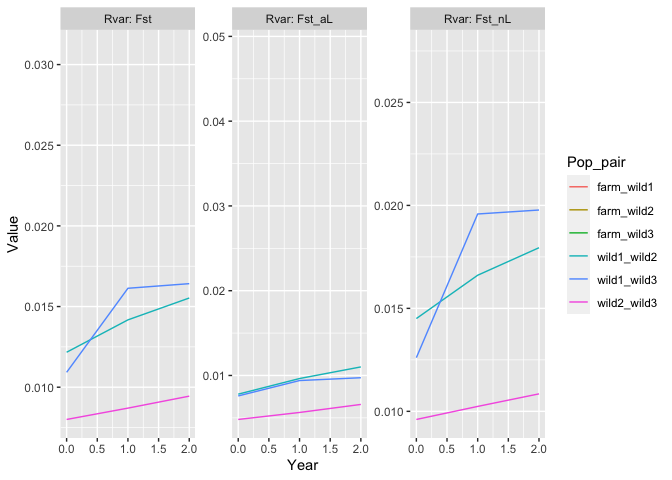
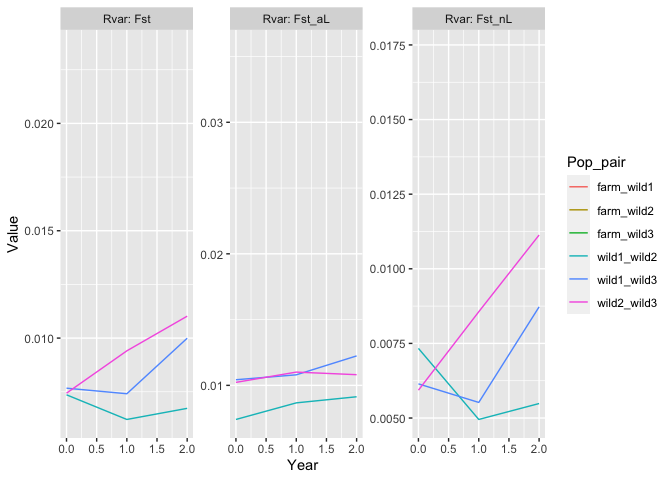
more complicated but more stable install process

diff --git a/README.md b/README.md
@@ -45,23 +45,46 @@ Python packages you will need a working internet connection.
 
 See the example below for the workflow needed to use this package
 
+### Installing Python Packages
+
+`shellfishrisks::install_pypkgs()` installs any missing and required
+Python packages
+
+Note that even if you have previously installed packages in another
+Python environment the first time you run this you will likely have to
+install packages again into the `r-reticulate` Conda environment
+
+For various reasons, if think you need to install Python libraries, you
+need to run
+
+``` r
+shellfishrisks::install_pypkgs()
+```
+
+BEFORE calling
+
+``` r
+library(shellfishrisks)
+```
+
+Once you have run `shellfishrisks::install_pypkgs()`, YOU MUST RESTART R
+COMPLETELY (e.g. exit RStudio and restart it) prior to calling
+
+``` r
+library(shellfishrisks)
+```
+
 ## Example
 
-This example shows you the sequence of steps needed to install required
-Python packages and run `shellfishrisks`.
+This example shows you the sequence of steps needed to run
+`shellfishrisks`.
 
 ``` r
 set.seed(42)
-# For various reasons, if think you need to install Python libraries, you need to run this BEFORE calling library(shellfishrisks)
-
-shellfishrisks::install_pypkgs() # installs any missing and required Python packages
-#> shellfishrisks is using Conda environment 'r-reticulate'
-# Note that even if you have previously installed packages in another Python environment the
-# first time you run this you will likely have to install packages again into the `r-reticulate` 
-# Conda environment
 
 library(shellfishrisks) # now load shellfishrisks after installing required python packages
-# If you get an error about a missing Python package, restart R, and then run shellfishrisks::install_pypgks() BEFORE running library(shellfishrisks)
+#> shellfishrisks is using Conda environment 'r-reticulate'
+# If you get an error about a missing Python package, restart R completely, and then follow "Installing Python Packages" instructions
 
 library(ggplot2)
 
@@ -74,6 +97,8 @@ library(dplyr)
 #> The following objects are masked from 'package:base':
 #> 
 #>     intersect, setdiff, setequal, union
+
+shellfishrisks::load_shellfish()
 
 # Set options
 batch_name <- "dev"
@@ -118,41 +143,41 @@ str(results)
 #>   ..$ Allele         : int [1:500] 0 1 0 1 0 1 0 1 0 1 ...
 #>   ..$ Adaptive       : chr [1:500] "True" "True" "True" "True" ...
 #>   ..$ Adv            : chr [1:500] "True" "False" "True" "False" ...
-#>   ..$ AlleleFrequency: num [1:500] 0.883 0.117 0.863 0.137 0.884 ...
+#>   ..$ AlleleFrequency: num [1:500] 0.87 0.13 0.863 0.137 0.882 ...
 #>  $ bstock_report   :'data.frame':    10 obs. of  4 variables:
 #>   ..$ coreid            : int [1:10] 1 1 1 1 1 1 1 1 1 1
 #>   ..$ Rep               : int [1:10] 0 0 0 0 0 0 0 0 0 0
 #>   ..$ Year              : int [1:10] 1 1 1 1 1 1 1 1 1 1
-#>   ..$ IndID_survivedAgeX: num [1:10] 59 43 20 14 87 75 56 35 2 68
+#>   ..$ IndID_survivedAgeX: num [1:10] 77 32 42 29 79 25 61 45 95 8
 #>  $ harvest         :'data.frame':    3 obs. of  5 variables:
 #>   ..$ coreid       : int [1:3] 1 1 1
 #>   ..$ Srep         : int [1:3] 1 1 1
 #>   ..$ Rep          : int [1:3] 0 0 0
 #>   ..$ Year         : int [1:3] 0 1 2
 #>   ..$ IndsHarvested: int [1:3] 0 0 0
-#>  $ life_hist_report:'data.frame':    123420 obs. of  12 variables:
-#>   ..$ coreid       : int [1:123420] 1 1 1 1 1 1 1 1 1 1 ...
-#>   ..$ Rep          : int [1:123420] 0 0 0 0 0 0 0 0 0 0 ...
-#>   ..$ Year         : int [1:123420] 0 0 0 0 0 0 0 0 0 0 ...
-#>   ..$ Month        : chr [1:123420] "Jan" "Jan" "Jan" "Jan" ...
-#>   ..$ Subpop       : chr [1:123420] "wild1" "wild1" "wild1" "wild1" ...
-#>   ..$ IndID        : num [1:123420] 1 2 3 4 5 6 7 8 9 10 ...
-#>   ..$ Sex          : int [1:123420] 2 1 1 1 1 2 1 2 1 1 ...
-#>   ..$ CohortYear   : num [1:123420] 0 0 0 0 0 0 0 0 0 0 ...
-#>   ..$ Age          : num [1:123420] 2.08 4.67 4.67 3.92 6.92 ...
-#>   ..$ Mother_id    : num [1:123420] 0 0 0 0 0 0 0 0 0 0 ...
-#>   ..$ Father_id    : num [1:123420] 0 0 0 0 0 0 0 0 0 0 ...
-#>   ..$ meanParentAge: num [1:123420] 0 0 0 0 0 0 0 0 0 0 ...
+#>  $ life_hist_report:'data.frame':    124116 obs. of  12 variables:
+#>   ..$ coreid       : int [1:124116] 1 1 1 1 1 1 1 1 1 1 ...
+#>   ..$ Rep          : int [1:124116] 0 0 0 0 0 0 0 0 0 0 ...
+#>   ..$ Year         : int [1:124116] 0 0 0 0 0 0 0 0 0 0 ...
+#>   ..$ Month        : chr [1:124116] "Jan" "Jan" "Jan" "Jan" ...
+#>   ..$ Subpop       : chr [1:124116] "wild1" "wild1" "wild1" "wild1" ...
+#>   ..$ IndID        : num [1:124116] 1 2 3 4 5 6 7 8 9 10 ...
+#>   ..$ Sex          : int [1:124116] 1 1 2 1 2 2 1 1 1 2 ...
+#>   ..$ CohortYear   : num [1:124116] 0 0 0 0 0 0 0 0 0 0 ...
+#>   ..$ Age          : num [1:124116] 6.58 5 2.42 5.92 3 ...
+#>   ..$ Mother_id    : num [1:124116] 0 0 0 0 0 0 0 0 0 0 ...
+#>   ..$ Father_id    : num [1:124116] 0 0 0 0 0 0 0 0 0 0 ...
+#>   ..$ meanParentAge: num [1:124116] 0 0 0 0 0 0 0 0 0 0 ...
 #>  $ log             :'data.frame':    3 obs. of  9 variables:
 #>   ..$ coreid    : int [1:3] 1 1 1
 #>   ..$ rep       : int [1:3] 0 0 0
 #>   ..$ farm_phase: chr [1:3] "pre-farm" "during-farm" "post-farm"
 #>   ..$ year      : int [1:3] 0 1 2
-#>   ..$ wild1_size: int [1:3] 717 1205 1606
-#>   ..$ wild2_size: int [1:3] 732 1233 1592
-#>   ..$ wild3_size: int [1:3] 711 1205 1547
-#>   ..$ farm_size : int [1:3] NA 491 NA
-#>   ..$ time_stamp: chr [1:3] "2021-08-11_11:32:48" "2021-08-11_11:35:33" "2021-08-11_11:39:22"
+#>   ..$ wild1_size: int [1:3] 711 1199 1594
+#>   ..$ wild2_size: int [1:3] 721 1213 1607
+#>   ..$ wild3_size: int [1:3] 717 1241 1630
+#>   ..$ farm_size : int [1:3] NA 498 NA
+#>   ..$ time_stamp: chr [1:3] "2021-08-13_12:17:32" "2021-08-13_12:20:24" "2021-08-13_12:24:13"
 #>  $ pop_pair_rvars  :'data.frame':    36 obs. of  7 variables:
 #>   ..$ coreid  : int [1:36] 1 1 1 1 1 1 1 1 1 1 ...
 #>   ..$ Srep    : int [1:36] 1 1 1 1 1 1 1 1 1 1 ...
@@ -160,7 +185,7 @@ str(results)
 #>   ..$ Year    : int [1:36] 0 0 0 0 0 0 0 0 0 1 ...
 #>   ..$ Pop_pair: chr [1:36] "wild1_wild2" "wild1_wild2" "wild1_wild2" "wild2_wild3" ...
 #>   ..$ Rvar    : chr [1:36] "Fst" "Fst_aL" "Fst_nL" "Fst" ...
-#>   ..$ Value   : num [1:36] 0.01217 0.00779 0.01451 0.008 0.00481 ...
+#>   ..$ Value   : num [1:36] 0.00736 0.00741 0.00733 0.00743 0.01023 ...
 #>  $ pop_rvars       :'data.frame':    40 obs. of  7 variables:
 #>   ..$ coreid: int [1:40] 1 1 1 1 1 1 1 1 1 1 ...
 #>   ..$ Srep  : int [1:40] 1 1 1 1 1 1 1 1 1 1 ...
@@ -168,14 +193,14 @@ str(results)
 #>   ..$ Year  : int [1:40] 0 0 0 0 0 0 0 0 0 0 ...
 #>   ..$ Subpop: chr [1:40] "wild1" "wild1" "wild1" "wild1" ...
 #>   ..$ Rvar  : chr [1:40] "mfit" "popsize" "het" "ar" ...
-#>   ..$ Value : num [1:40] 0.997 845 1 1860 0.997 ...
+#>   ..$ Value : num [1:40] 0.997 841 1 1740 0.997 ...
 #>  $ temp_rvars      :'data.frame':    3 obs. of  6 variables:
 #>   ..$ coreid: int [1:3] 1 1 1
 #>   ..$ Srep  : int [1:3] 1 1 1
 #>   ..$ Rep   : int [1:3] 0 0 0
 #>   ..$ Subpop: chr [1:3] "wild1" "wild2" "wild3"
 #>   ..$ Rvar  : chr [1:3] "Fst" "Fst" "Fst"
-#>   ..$ Value : num [1:3] 3.34e-04 3.98e-04 7.57e-05
+#>   ..$ Value : num [1:3] 0.000517 0.000213 0.000503
 
 results$AFs %>% 
   ggplot(aes(Year, AlleleFrequency, color = Locus_index, group = Locus_index)) + 
